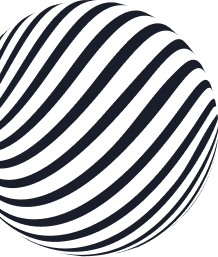
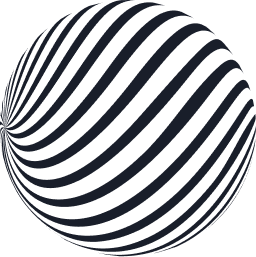
Hero section updated

diff --git a/index.html b/index.html
@@ -12,8 +12,9 @@
 
 <body>
 
+    <!-- Header start -->
     <header>
-        <div class="tp-header-area tp-transparent-header pl-83 tp-header-border">
+        <div class="tp-header-area tp-transparent-header pl-40 tp-header-border">
             <div class="container-fluid p-0">
                 <div class="row align-items-center gx-0">
                     <div class="col-xl-2">
@@ -93,8 +94,35 @@
             </div>
         </div>
     </header>
+    <!-- Header end -->
 
-    <div class="bg-black" style="height: 500px;"></div>
+    <main>
+        <!-- Hero section start -->
+        <div class="tp-hero-area tp-black-bg pt-290 b-170 p-relative"
+            style="background-image: url(assets/img/shape/hero-1-bg-shape.png);">
+            <div class="tp-her-shape">
+                <img class="tp-hero-shape-1 p-absolute" src="assets/img/shape/hero-1-ball-shape.png" alt="">
+                <img class="tp-hero-shape-2 p-absolute" src="assets/img/shape/hero-1-piramide-shape.png" alt="">
+                <img class="tp-hero-shape-3 p-absolute" src="assets/img/shape/hero-1-small-ball-shape.png" alt="">
+                <img class="tp-hero-shape-4 p-absolute" src="assets/img/shape/hero-1-ring-shape.png" alt="">
+                <img class="tp-hero-shape-5 p-absolute" src="assets/img/shape/hero-1-dobule-ring-shape.png" alt="">
+            </div>
+            <div class="container">
+                <div class="tp-hero">
+                    <div class="mb-30">
+                        <h1 class="tp-hero-title">best digital <br> <span>creative agency</span></h1>
+                        <h1 class="tp-hero-title"><i>brilliant ideas <br> for your brand</i> from canada</h1>
+                    </div>
+                    <div class="tp-hero-btn">
+                        <a href="#" class="tp-btn">Discover More</a>
+                    </div>
+                </div>
+            </div>
+        </div>
+        <!-- Hero section end -->
+    </main>
+
+    <!-- <div class="bg-black" style="height: 500px;"></div> -->
 
     <script src="assets/js/jquery-3.7.1.min.js"></script>
     <script src="assets/js/bootstrap.bundle.min.js"></script>

diff --git a/assets/css/style.css b/assets/css/style.css
@@ -127,9 +127,10 @@
 :root {
   --tp-theme-color: #0057FC;
   --tp-theme-color-2: #FFE815;
-  --tp-heading-color: #FFE815;
+  --tp-heading-color: #0A0E1A;
   --tp-body-color: #57595C;
   --tp-theme-nblue: #001C52;
+  --tp-common-black: #0A0E1A;
   --tp-black: black;
   --tp-white: white;
   --tp-grey-color: #f6f6f6;
@@ -141,6 +142,16 @@
 :root {
   --tp-fonts-heading: "Federo", sans-serif;
   --tp-fonts-body: "DM Sans", sans-serif;
+}
+
+.tp-btn {
+  background-color: var(--tp-theme-color-2);
+  padding: 21px 45px;
+  font-family: var(--tp-fonts-heading);
+  font-size: 18px;
+  line-height: 28px;
+  border-radius: 5px;
+  display: inline-block;
 }
 
 * {
@@ -364,6 +375,10 @@ textarea {
 
 .p-absolute {
   position: absolute;
+}
+
+.tp-black-bg {
+  background-color: var(--tp-common-black);
 }
 
 /*--
@@ -3577,12 +3592,21 @@ textarea {
   padding-right: 100px;
 }
 
+.pt-290 {
+  padding-top: 290px;
+}
+
+.b-170 {
+  padding-bottom: 170px;
+}
+
 .tp-transparent-header {
   position: absolute;
   top: 0;
   right: 0;
   left: 0;
   width: 100%;
+  z-index: 1;
 }
 
 .tp-main-menu ul li {
@@ -3671,6 +3695,36 @@ textarea {
   color: #ffffff;
   font-size: 18px;
   margin: 0;
+}
+
+.tp-hero-title {
+  font-size: 110px;
+  text-transform: uppercase;
+  color: #fff;
+  margin: 0;
+}
+.tp-hero-title span {
+  background: radial-gradient(42.24% 2817.5% at 52.45% 54.17%, rgba(255, 232, 21, 0.95) 0%, #3c7fff 100%);
+  -webkit-background-clip: text;
+  -webkit-text-fill-color: transparent;
+  background-clip: text;
+}
+.tp-hero-title i {
+  font-size: 30px;
+  color: #b1b4ba;
+  font-style: normal;
+  display: inline-block;
+  transform: translateY(-5px);
+}
+
+.tp-hero-shape-5 {
+  right: 140px;
+  bottom: 140px;
+}
+
+.tp-hero-shape-4 {
+  right: 190px;
+  top: 300px;
 }
 
 /*# sourceMappingURL=style.css.map */

diff --git a/assets/scss/theme/_spacing.scss b/assets/scss/theme/_spacing.scss
@@ -1,43 +1,66 @@
-@use '../utils' as *;
+@use "../utils" as *;
 
 /*--
     - Margin & Padding
 -----------------------------------------*/
 /*-- Margin Top --*/
 @for $i from 1 through 100 {
-    .mt-#{1 * $i}{margin-top: 1px * $i;}
+  .mt-#{1 * $i} {
+    margin-top: 1px * $i;
+  }
 }
 /*-- Margin Bottom --*/
 @for $i from 1 through 100 {
-    .mb-#{1 * $i}{margin-bottom: 1px *$i;}
+  .mb-#{1 * $i} {
+    margin-bottom: 1px * $i;
+  }
 }
 /*-- Margin Left --*/
 @for $i from 1 through 100 {
-    .ml-#{1 * $i}{margin-left: 1px * $i;}
+  .ml-#{1 * $i} {
+    margin-left: 1px * $i;
+  }
 }
 
 /*-- Margin Right --*/
 @for $i from 1 through 100 {
-    .mr-#{1 * $i}{margin-right: 1px *$i;}
+  .mr-#{1 * $i} {
+    margin-right: 1px * $i;
+  }
 }
 
 /*-- Padding Top --*/
 @for $i from 1 through 100 {
-    .pt-#{1 * $i}{padding-top: 1px *$i;}
+  .pt-#{1 * $i} {
+    padding-top: 1px * $i;
+  }
 }
 
 /*-- Padding Bottom --*/
 @for $i from 1 through 100 {
-    .pb-#{1 * $i}{padding-bottom: 1px *$i;}
+  .pb-#{1 * $i} {
+    padding-bottom: 1px * $i;
+  }
 }
 
 /*-- Padding Left --*/
 @for $i from 1 through 100 {
-    .pl-#{1 * $i}{padding-left: 1px *$i;}
+  .pl-#{1 * $i} {
+    padding-left: 1px * $i;
+  }
 }
 
 /*-- Padding Right --*/
 @for $i from 1 through 100 {
-    .pr-#{1 * $i}{padding-right: 1px *$i;}
+  .pr-#{1 * $i} {
+    padding-right: 1px * $i;
+  }
 }
 
+.pt-290 {
+  padding-top: 290px;
+}
+
+.b-170 {
+  padding-bottom: 170px;
+}

diff --git a/assets/scss/theme/_common.scss b/assets/scss/theme/_common.scss
@@ -1,44 +1,47 @@
-@use '../utils' as *;
+@use "../utils" as *;
 
-
-.w-img{
-	& img{
-		width: 100%;
-	}
+.w-img {
+  & img {
+    width: 100%;
+  }
 }
-.m-img{
-	& img{
-		max-width: 100%;
-	}
+.m-img {
+  & img {
+    max-width: 100%;
+  }
 }
 
 .fix {
-    overflow:hidden
+  overflow: hidden;
 }
-.clear{
-    clear: both;
-}
-
-.z-index-1{
-	z-index: 1;
+.clear {
+  clear: both;
 }
 
-.z-index-11{
-	z-index: 11;
+.z-index-1 {
+  z-index: 1;
 }
 
-.overflow-y-visible{
-	overflow-x: hidden;
-	overflow-y: visible;
-}
-.overflow-x-visible{
-	overflow-x: visible;
-	overflow-y: hidden;
+.z-index-11 {
+  z-index: 11;
 }
 
-.p-relative{
-	position: relative;
+.overflow-y-visible {
+  overflow-x: hidden;
+  overflow-y: visible;
 }
-.p-absolute{
-	position: absolute;
+.overflow-x-visible {
+  overflow-x: visible;
+  overflow-y: hidden;
+}
+
+.p-relative {
+  position: relative;
+}
+.p-absolute {
+  position: absolute;
+}
+
+.tp-black-bg {
+	background-color: var(--tp-common-black);
 }

diff --git a/assets/scss/layout/pages/_hero.scss b/assets/scss/layout/pages/_hero.scss
@@ -1,0 +1,38 @@
+@use "../../utils" as *;
+
+.tp-hero {
+  &-title {
+    font-size: 110px;
+    text-transform: uppercase;
+    color: #fff;
+    margin: 0;
+    & span {
+      background: radial-gradient(
+          42.24% 2817.5% at 52.45% 54.17%,
+          rgba(255, 232, 21, 0.95) 0%,
+          #3c7fff 100%
+        )
+        /* warning: gradient uses a rotation that is not supported by CSS and may not behave as expected */;
+      -webkit-background-clip: text;
+      -webkit-text-fill-color: transparent;
+      background-clip: text;
+    }
+    & i {
+      font-size: 30px;
+      color: #b1b4ba;
+      font-style: normal;
+      display: inline-block;
+      transform: translateY(-5px);
+    }
+  }
+}
+
+.tp-hero-shape-5 {
+  right: 140px;
+  bottom: 140px;
+}
+
+.tp-hero-shape-4 {
+    right: 190px;
+    top: 300px;
+}

diff --git a/assets/scss/utils/_colors.scss b/assets/scss/utils/_colors.scss
@@ -1,9 +1,10 @@
 :root {
     --tp-theme-color: #0057FC;
     --tp-theme-color-2: #FFE815;
-    --tp-heading-color: #FFE815;
+    --tp-heading-color: #0A0E1A;
     --tp-body-color: #57595C;
     --tp-theme-nblue: #001C52;
+    --tp-common-black: #0A0E1A;
     --tp-black: black;
     --tp-white: white;
     --tp-grey-color: #f6f6f6;

diff --git a/assets/scss/component/_btn.scss b/assets/scss/component/_btn.scss
@@ -1,1 +1,11 @@
-@use '../utils' as *;
+@use "../utils" as *;
+
+.tp-btn {
+  background-color: var(--tp-theme-color-2);
+  padding: 21px 45px;
+  font-family: var(--tp-fonts-heading);
+  font-size: 18px;
+  line-height: 28px;
+  border-radius: 5px;
+  display: inline-block;
+}

diff --git a/assets/scss/layout/header/_header.scss b/assets/scss/layout/header/_header.scss
@@ -6,6 +6,7 @@
   right: 0;
   left: 0;
   width: 100%;
+  z-index: 1;
 }
 
 .tp-main-menu {

diff --git a/assets/scss/layout/pages/index.scss b/assets/scss/layout/pages/index.scss
@@ -1,3 +1,4 @@
+@forward 'hero';
 @forward 'about';
 @forward 'contact';
 @forward 'cta';
